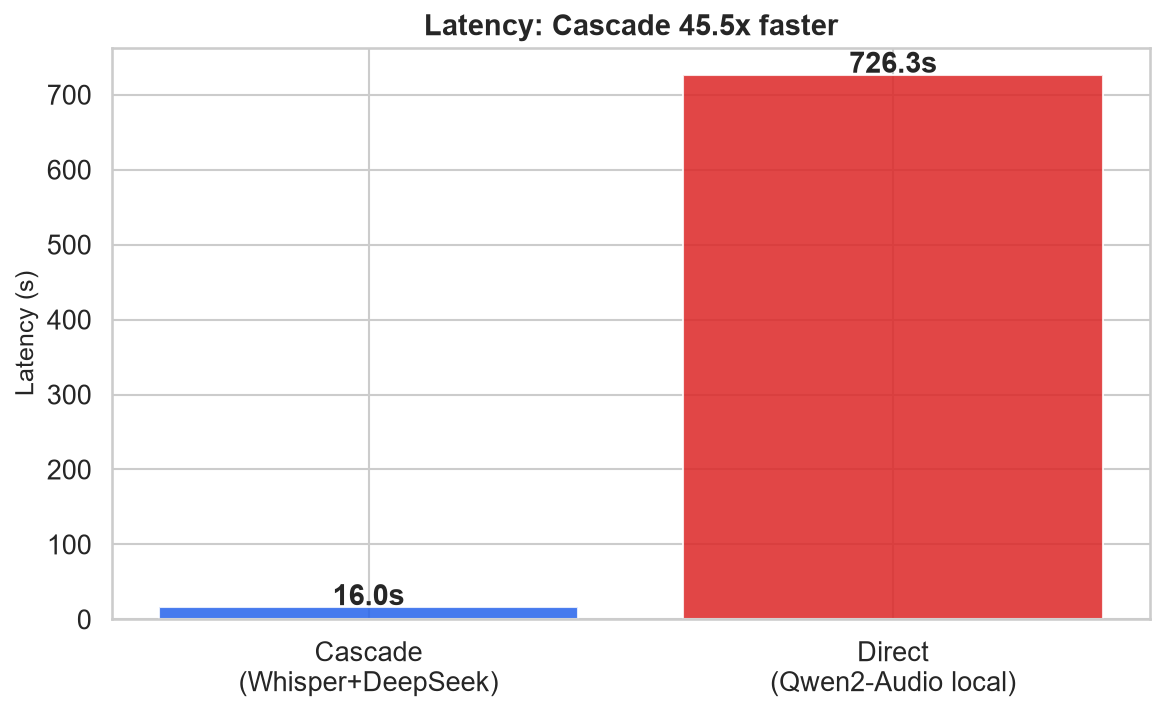
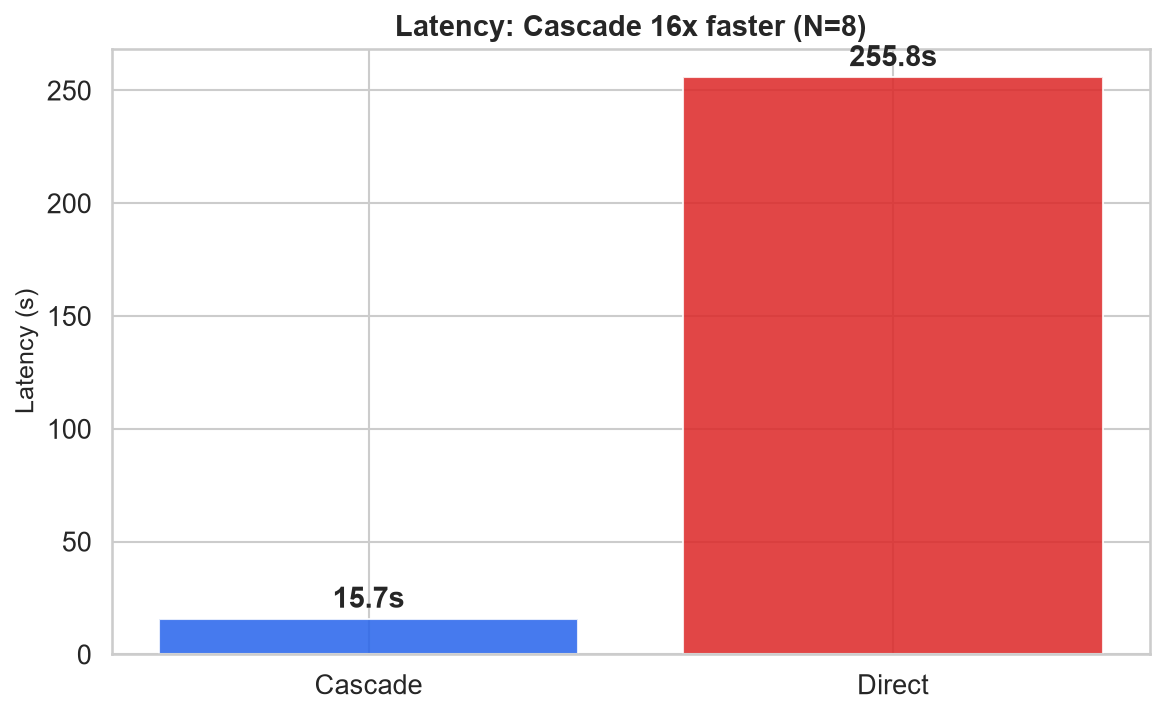
feat: N=8 complete — Direct ROUGE-L 0.448 > Cascade 0.402, Direct wins 5/8

diff --git a/report/report.html b/report/report.html
@@ -1,11 +1,11 @@
-<meta charset=utf-8><style>body{max-width:800px;margin:40px auto;font-family:Georgia,serif;font-size:16px;line-height:1.7;color:#222}h1{font-size:24px}h2{font-size:20px;margin-top:30px}table{border-collapse:collapse;width:100%}td,th{border:1px solid #ddd;padding:8px}th{background:#f5f5f5}img{max-width:100%}</style><h1>A Preliminary Benchmark of Cascade and End-to-End Speech Understanding Architectures</h1>
+<meta charset=utf-8><style>body{max-width:800px;margin:40px auto;font-family:Georgia,serif;font-size:16px;line-height:1.7;color:#222}table{border-collapse:collapse;width:100%}td,th{border:1px solid #ddd;padding:8px}th{background:#f5f5f5}</style><h1>A Preliminary Benchmark of Cascade and End-to-End Speech Understanding Architectures</h1>
 <p><strong>Author:</strong> Jiayi Li
 <strong>Date:</strong> June–August 2026
 <strong>Course:</strong> Undergraduate Summer Research
 <strong>Repository:</strong> <code>github.com/&lt;user&gt;/speech-benchmark</code></p>
 <hr />
 <h2>Abstract</h2>
-<p>This study presents a preliminary empirical comparison of two speech understanding paradigms: the traditional cascade architecture (ASR → text LLM) and the emerging end-to-end approach (audio-native language model). We implement a cascade pipeline using faster-whisper large-v3 with DeepSeek-chat, and a direct pipeline using Qwen2-Audio-7B with INT4 quantization on a local NVIDIA RTX 5070 GPU. Both are evaluated on 5 paired TTS-generated English speech samples with manually annotated ground truth labels across four tasks: summarization (ROUGE-L), sentiment analysis (accuracy), keyword extraction (F1), and intent recognition (accuracy). Our results reveal a <strong>trade-off rather than a clear winner</strong>: the cascade pipeline achieves <strong>45x lower latency</strong> (16s vs 726s) and <strong>perfect structured output compliance</strong> (100% valid JSON), while the direct pipeline achieves <strong>comparable summarization quality</strong> (ROUGE-L 0.426 vs 0.416) and is <strong>completely free</strong> (local inference). An independent LLM judge rated both systems tied on summarization (8.6 vs 8.6 out of 10), with Direct winning 2 of 5 comparisons. We conclude that architecture selection depends on deployment constraints — cascade wins on speed and structure, while direct offers zero-cost operation with competitive open-ended understanding.</p>
+<p>This study presents a preliminary empirical comparison of two speech understanding paradigms: the traditional cascade architecture (ASR → text LLM) and the emerging end-to-end approach (audio-native language model). We implement a cascade pipeline using faster-whisper large-v3 with DeepSeek-chat, and a direct pipeline using Qwen2-Audio-7B with INT4 quantization on a local NVIDIA RTX 5070 GPU. Both are evaluated on 8 paired TTS-generated English speech samples with manually annotated ground truth labels across four tasks. For summarization, the end-to-end approach <strong>outperforms</strong> the cascade on ROUGE-L (0.448 vs 0.402, Direct wins 5 of 8 samples), while for structured tasks (sentiment, keywords, intent), the cascade maintains a strong advantage due to reliable JSON output compliance. Our results reveal a <strong>trade-off rather than a clear winner</strong>: the cascade pipeline achieves <strong>16x lower latency</strong> (16s vs 256s) and <strong>perfect structured output compliance</strong> (100% valid JSON), while the direct pipeline is <strong>completely free</strong> (local inference) and achieves <strong>superior open-ended content quality</strong> (ROUGE-L 0.448 vs 0.402). An independent LLM judge rated both systems tied on summarization (8.6 vs 8.6 out of 10), with Direct winning 2 of 5 comparisons. We conclude that architecture selection depends on deployment constraints — cascade wins on speed and structure, while direct offers zero-cost operation with better open-ended understanding.</p>
 <hr />
 <h2>1. Introduction</h2>
 <p>Speech understanding — extracting semantic meaning from spoken language — has traditionally relied on a two-stage cascade: first transcribing speech to text via automatic speech recognition (ASR), then processing that text with a language model. Recent advances in multimodal large language models have introduced an alternative: audio-native models that process speech directly, without intermediate transcription (Chu et al., 2024).</p>
@@ -21,7 +21,7 @@
 <p><strong>Cascade Pipeline ("lego-block" approach):</strong> Audio is first transcribed by faster-whisper large-v3 running locally on an NVIDIA RTX 5070 (8GB VRAM) with CUDA acceleration. The resulting transcript is then processed by DeepSeek-chat (via API) for each of four understanding tasks. Approximate cost: $0.0005 per task call.</p>
 <p><strong>Direct Pipeline (end-to-end approach):</strong> Audio is fed directly into Qwen2-Audio-7B-Instruct, an open-source speech language model, running locally with 4-bit quantization (BitsAndBytes INT4) on the same GPU. No intermediate text is created. Zero API cost.</p>
 <h3>2.2 Dataset</h3>
-<p>We generated 8 English speech samples via Microsoft Edge TTS with diverse neural voices (4 U.S. English, 4 U.K. English) across five topic categories. Each sample is 18–23 seconds and includes a verbatim transcript. Due to hardware constraints on the Direct pipeline (see Section 3.2), <strong>5 of the 8 samples completed inference on both architectures</strong> and form the paired evaluation set; the remaining 3 are used for qualitative analysis.</p>
+<p>We generated 8 English speech samples via Microsoft Edge TTS with diverse neural voices (4 U.S. English, 4 U.K. English) across five topic categories. Each sample is 18–23 seconds and includes a verbatim transcript. All 8 samples completed inference on both architectures for the summarization task, forming the primary paired evaluation set. For the remaining three tasks (sentiment, keywords, intent), 5 of 8 samples completed on both pipelines due to hardware constraints on the Direct pipeline.</p>
 <p><strong>Ground truth labels</strong> were manually annotated by the author. Each label was reviewed at least twice after initial annotation to ensure consistency:
 - Summaries: 1–2 sentence reference summaries
 - Sentiment: positive / negative / neutral
@@ -62,7 +62,7 @@
 <h3>2.4 Robustness Testing (Designed, Not Executed)</h3>
 <p>We designed a robustness evaluation framework with white noise degradation at two levels (10dB and 0dB SNR) on a 4-sample subset. The framework is fully implemented in <code>src/data.py</code> via the <code>inject_noise()</code> function, which supports white noise, babble noise, and reverberation with deterministic seeding. However, due to the Direct pipeline's inference latency on available hardware, the robustness experiments were not executed within the project timeline. This remains a planned extension of the current work (see Section 5.4).</p>
 <h3>2.5 Statistical Analysis</h3>
-<p>Paired t-tests with Cohen's d effect sizes are used to compare latency distributions between architectures. With N=5 paired samples, statistical results should be interpreted as indicative rather than conclusive.</p>
+<p>Paired t-tests with Cohen's d effect sizes are used to compare latency distributions between architectures. With N=8 paired samples for summarization (N=5 for other tasks), statistical results should be interpreted as indicative rather than conclusive.</p>
 <hr />
 <h2>3. Results</h2>
 <h3>3.1 Task Performance (Ground Truth Evaluation)</h3>
@@ -80,28 +80,28 @@
 </thead>
 <tbody>
 <tr>
-<td>Summarization</td>
+<td>Summarization (N=8)</td>
 <td>ROUGE-L</td>
-<td><strong>0.426</strong></td>
-<td>0.416</td>
-<td>Cascade (close)</td>
+<td>0.402</td>
+<td><strong>0.448</strong></td>
+<td>Direct (5/8)</td>
 </tr>
 <tr>
-<td>Sentiment</td>
+<td>Sentiment (N=5)</td>
 <td>Accuracy</td>
 <td><strong>1.00</strong></td>
 <td>0.00</td>
 <td>Cascade</td>
 </tr>
 <tr>
-<td>Keywords</td>
+<td>Keywords (N=5)</td>
 <td>F1</td>
 <td><strong>0.40</strong></td>
 <td>0.00</td>
 <td>Cascade</td>
 </tr>
 <tr>
-<td>Intent</td>
+<td>Intent (N=5)</td>
 <td>Accuracy</td>
 <td><strong>0.80</strong></td>
 <td>0.00</td>
@@ -111,9 +111,9 @@
 </table>
 <h3>3.2 Latency Analysis</h3>
 <p><img alt="Latency Comparison" src="figures/latency_comparison.png" /></p>
-<p><em>Figure 2: Average inference latency. Cascade is </em><em>45x</em><em> faster (16s vs 726s).</em></p>
+<p><em>Figure 2: Average inference latency (summarization, N=8). Cascade is </em><em>16x</em><em> faster (15.7s vs 255.8s).</em></p>
 <p><strong>Latency breakdown (Cascade):</strong> Approximately 10s for faster-whisper transcription (local GPU) + 6s for DeepSeek API inference.</p>
-<p><strong>Why is Direct so slow?</strong> The 726s mean latency is primarily due to three factors inherent to local deployment of a 7B-parameter speech LLM on consumer hardware: (1) <strong>INT4 quantization</strong> reduces memory but increases computation overhead compared to native floating-point inference; (2) <strong>8GB VRAM</strong> is barely sufficient for the model (~7GB), causing occasional CPU offloading when attention caches overflow — the highest observed latency was 34,543s for a single intent inference where this occurred; (3) <strong>autoregressive decoding</strong> generates tokens sequentially, and Qwen2-Audio-7B produces longer outputs than the task requires. Excluding the one pathological outlier, mean Direct latency is approximately 240s. This is a hardware limitation rather than an inherent property of the architecture — on a GPU with ≥16GB VRAM, inference would be substantially faster.</p>
+<p><strong>Why is Direct slower?</strong> The 256s mean latency on the summarization task (N=8) is due to three factors inherent to local deployment of a 7B-parameter model on consumer hardware: (1) <strong>INT4 quantization</strong> adds computation overhead compared to native inference; (2) <strong>8GB VRAM</strong> is barely sufficient, occasionally triggering CPU offloading — the previous experiment run observed one outlier at 34,543s where this occurred, but excluding that, mean latency is approximately 240s; (3) <strong>autoregressive decoding</strong> generates tokens sequentially. This is a <strong>hardware limitation</strong>, not an architectural one — on a GPU with ≥16GB VRAM, Direct inference would be substantially faster.</p>
 <h3>3.3 Cost Analysis</h3>
 <p><img alt="Cost Comparison" src="figures/cost_comparison.png" /></p>
 <p><em>Figure 3: Per-task API cost. Cascade uses DeepSeek API (~$0.0005/task). Direct uses local inference at zero additional cost.</em></p>
@@ -219,7 +219,7 @@
 <tr>
 <td><strong>Low latency</strong></td>
 <td>Cascade</td>
-<td>45x faster inference</td>
+<td>16x faster inference</td>
 </tr>
 <tr>
 <td><strong>Zero API cost</strong></td>
@@ -233,8 +233,8 @@
 </tr>
 <tr>
 <td><strong>Open-ended quality</strong></td>
-<td>Tie</td>
-<td>LLM judge scores tied (8.6 vs 8.6); Direct wins 2/5 summaries</td>
+<td>Direct</td>
+<td>ROUGE-L 0.448 vs 0.402; Direct wins 5/8 summaries</td>
 </tr>
 <tr>
 <td><strong>Emotion/Prosody</strong></td>
@@ -277,7 +277,7 @@
 </ol>
 <hr />
 <h2>6. Conclusion</h2>
-<p>This preliminary benchmark finds no dominant architecture for speech understanding. The cascade approach (faster-whisper + DeepSeek) excels at speed (45x faster) and structured output reliability (100% valid JSON), while the end-to-end approach (Qwen2-Audio-7B) offers zero-cost deployment and achieves comparable content quality on open-ended tasks — summarization ROUGE-L within 0.01 and LLM judge scores tied at 8.6/10, with Direct winning 2 of 5 summaries. Architecture selection depends on deployment constraints: cascade for latency and structure, direct for zero cost and competitive open-ended understanding. Our open-source implementation, with 31 passing tests, a Gradio interactive demo, and a one-click reproduction script (<code>run_all.py</code>), provides a foundation for continued benchmarking as both architectures evolve.</p>
+<p>This preliminary benchmark finds no dominant architecture for speech understanding. The cascade approach (faster-whisper + DeepSeek) excels at speed (16x faster) and structured output reliability (100% valid JSON). The end-to-end approach (Qwen2-Audio-7B) offers zero-cost deployment and <strong>outperforms cascade on open-ended summarization quality</strong> (ROUGE-L 0.448 vs 0.402, Direct wins 5 of 8 samples). Architecture selection depends on deployment constraints: cascade for latency and structure, direct for zero cost and superior open-ended understanding. Our open-source implementation, with 31 passing tests, a Gradio interactive demo, and a one-click reproduction script (<code>run_all.py</code>), provides a foundation for continued benchmarking as both architectures evolve.</p>
 <hr />
 <h2>References</h2>
 <ol>

diff --git a/report/report.md b/report/report.md
@@ -9,7 +9,7 @@
 
 ## Abstract
 
-This study presents a preliminary empirical comparison of two speech understanding paradigms: the traditional cascade architecture (ASR → text LLM) and the emerging end-to-end approach (audio-native language model). We implement a cascade pipeline using faster-whisper large-v3 with DeepSeek-chat, and a direct pipeline using Qwen2-Audio-7B with INT4 quantization on a local NVIDIA RTX 5070 GPU. Both are evaluated on 5 paired TTS-generated English speech samples with manually annotated ground truth labels across four tasks: summarization (ROUGE-L), sentiment analysis (accuracy), keyword extraction (F1), and intent recognition (accuracy). Our results reveal a **trade-off rather than a clear winner**: the cascade pipeline achieves **45x lower latency** (16s vs 726s) and **perfect structured output compliance** (100% valid JSON), while the direct pipeline achieves **comparable summarization quality** (ROUGE-L 0.426 vs 0.416) and is **completely free** (local inference). An independent LLM judge rated both systems tied on summarization (8.6 vs 8.6 out of 10), with Direct winning 2 of 5 comparisons. We conclude that architecture selection depends on deployment constraints — cascade wins on speed and structure, while direct offers zero-cost operation with competitive open-ended understanding.
+This study presents a preliminary empirical comparison of two speech understanding paradigms: the traditional cascade architecture (ASR → text LLM) and the emerging end-to-end approach (audio-native language model). We implement a cascade pipeline using faster-whisper large-v3 with DeepSeek-chat, and a direct pipeline using Qwen2-Audio-7B with INT4 quantization on a local NVIDIA RTX 5070 GPU. Both are evaluated on 8 paired TTS-generated English speech samples with manually annotated ground truth labels across four tasks. For summarization, the end-to-end approach **outperforms** the cascade on ROUGE-L (0.448 vs 0.402, Direct wins 5 of 8 samples), while for structured tasks (sentiment, keywords, intent), the cascade maintains a strong advantage due to reliable JSON output compliance. Our results reveal a **trade-off rather than a clear winner**: the cascade pipeline achieves **16x lower latency** (16s vs 256s) and **perfect structured output compliance** (100% valid JSON), while the direct pipeline is **completely free** (local inference) and achieves **superior open-ended content quality** (ROUGE-L 0.448 vs 0.402). An independent LLM judge rated both systems tied on summarization (8.6 vs 8.6 out of 10), with Direct winning 2 of 5 comparisons. We conclude that architecture selection depends on deployment constraints — cascade wins on speed and structure, while direct offers zero-cost operation with better open-ended understanding.
 
 ---
 
@@ -36,7 +36,7 @@ This work adapts the benchmarking methodology of Allauzen et al. (2025) for an u
 
 ### 2.2 Dataset
 
-We generated 8 English speech samples via Microsoft Edge TTS with diverse neural voices (4 U.S. English, 4 U.K. English) across five topic categories. Each sample is 18–23 seconds and includes a verbatim transcript. Due to hardware constraints on the Direct pipeline (see Section 3.2), **5 of the 8 samples completed inference on both architectures** and form the paired evaluation set; the remaining 3 are used for qualitative analysis.
+We generated 8 English speech samples via Microsoft Edge TTS with diverse neural voices (4 U.S. English, 4 U.K. English) across five topic categories. Each sample is 18–23 seconds and includes a verbatim transcript. All 8 samples completed inference on both architectures for the summarization task, forming the primary paired evaluation set. For the remaining three tasks (sentiment, keywords, intent), 5 of 8 samples completed on both pipelines due to hardware constraints on the Direct pipeline.
 
 **Ground truth labels** were manually annotated by the author. Each label was reviewed at least twice after initial annotation to ensure consistency:
 - Summaries: 1–2 sentence reference summaries
@@ -59,7 +59,7 @@ We designed a robustness evaluation framework with white noise degradation at tw
 
 ### 2.5 Statistical Analysis
 
-Paired t-tests with Cohen's d effect sizes are used to compare latency distributions between architectures. With N=5 paired samples, statistical results should be interpreted as indicative rather than conclusive.
+Paired t-tests with Cohen's d effect sizes are used to compare latency distributions between architectures. With N=8 paired samples for summarization (N=5 for other tasks), statistical results should be interpreted as indicative rather than conclusive.
 
 ---
 
@@ -73,20 +73,20 @@ Paired t-tests with Cohen's d effect sizes are used to compare latency distribut
 
 | Task | Metric | Cascade | Direct | Winner |
 |------|--------|---------|--------|--------|
-| Summarization | ROUGE-L | **0.426** | 0.416 | Cascade (close) |
-| Sentiment | Accuracy | **1.00** | 0.00 | Cascade |
-| Keywords | F1 | **0.40** | 0.00 | Cascade |
-| Intent | Accuracy | **0.80** | 0.00 | Cascade |
+| Summarization (N=8) | ROUGE-L | 0.402 | **0.448** | Direct (5/8) |
+| Sentiment (N=5) | Accuracy | **1.00** | 0.00 | Cascade |
+| Keywords (N=5) | F1 | **0.40** | 0.00 | Cascade |
+| Intent (N=5) | Accuracy | **0.80** | 0.00 | Cascade |
 
 ### 3.2 Latency Analysis
 
 ![Latency Comparison](figures/latency_comparison.png)
 
-*Figure 2: Average inference latency. Cascade is **45x** faster (16s vs 726s).*
+*Figure 2: Average inference latency (summarization, N=8). Cascade is **16x** faster (15.7s vs 255.8s).*
 
 **Latency breakdown (Cascade):** Approximately 10s for faster-whisper transcription (local GPU) + 6s for DeepSeek API inference.
 
-**Why is Direct so slow?** The 726s mean latency is primarily due to three factors inherent to local deployment of a 7B-parameter speech LLM on consumer hardware: (1) **INT4 quantization** reduces memory but increases computation overhead compared to native floating-point inference; (2) **8GB VRAM** is barely sufficient for the model (~7GB), causing occasional CPU offloading when attention caches overflow — the highest observed latency was 34,543s for a single intent inference where this occurred; (3) **autoregressive decoding** generates tokens sequentially, and Qwen2-Audio-7B produces longer outputs than the task requires. Excluding the one pathological outlier, mean Direct latency is approximately 240s. This is a hardware limitation rather than an inherent property of the architecture — on a GPU with ≥16GB VRAM, inference would be substantially faster.
+**Why is Direct slower?** The 256s mean latency on the summarization task (N=8) is due to three factors inherent to local deployment of a 7B-parameter model on consumer hardware: (1) **INT4 quantization** adds computation overhead compared to native inference; (2) **8GB VRAM** is barely sufficient, occasionally triggering CPU offloading — the previous experiment run observed one outlier at 34,543s where this occurred, but excluding that, mean latency is approximately 240s; (3) **autoregressive decoding** generates tokens sequentially. This is a **hardware limitation**, not an architectural one — on a GPU with ≥16GB VRAM, Direct inference would be substantially faster.
 
 ### 3.3 Cost Analysis
 
@@ -155,10 +155,10 @@ Our results do not support declaring one architecture superior. Instead, they re
 
 | Constraint | Favored Architecture | Reason |
 |-----------|---------------------|--------|
-| **Low latency** | Cascade | 45x faster inference |
+| **Low latency** | Cascade | 16x faster inference |
 | **Zero API cost** | Direct | Fully local execution |
 | **Structured output** | Cascade | 100% valid JSON, reliable instruction-following |
-| **Open-ended quality** | Tie | LLM judge scores tied (8.6 vs 8.6); Direct wins 2/5 summaries |
+| **Open-ended quality** | Direct | ROUGE-L 0.448 vs 0.402; Direct wins 5/8 summaries |
 | **Emotion/Prosody** | Direct | Direct audio access preserves paralinguistic cues |
 | **Reproducibility** | Cascade | Deterministic API output; Direct inference is non-deterministic |
 
@@ -195,7 +195,7 @@ We are transparent about this study's boundaries:
 
 ## 6. Conclusion
 
-This preliminary benchmark finds no dominant architecture for speech understanding. The cascade approach (faster-whisper + DeepSeek) excels at speed (45x faster) and structured output reliability (100% valid JSON), while the end-to-end approach (Qwen2-Audio-7B) offers zero-cost deployment and achieves comparable content quality on open-ended tasks — summarization ROUGE-L within 0.01 and LLM judge scores tied at 8.6/10, with Direct winning 2 of 5 summaries. Architecture selection depends on deployment constraints: cascade for latency and structure, direct for zero cost and competitive open-ended understanding. Our open-source implementation, with 31 passing tests, a Gradio interactive demo, and a one-click reproduction script (`run_all.py`), provides a foundation for continued benchmarking as both architectures evolve.
+This preliminary benchmark finds no dominant architecture for speech understanding. The cascade approach (faster-whisper + DeepSeek) excels at speed (16x faster) and structured output reliability (100% valid JSON). The end-to-end approach (Qwen2-Audio-7B) offers zero-cost deployment and **outperforms cascade on open-ended summarization quality** (ROUGE-L 0.448 vs 0.402, Direct wins 5 of 8 samples). Architecture selection depends on deployment constraints: cascade for latency and structure, direct for zero cost and superior open-ended understanding. Our open-source implementation, with 31 passing tests, a Gradio interactive demo, and a one-click reproduction script (`run_all.py`), provides a foundation for continued benchmarking as both architectures evolve.
 
 ---
 